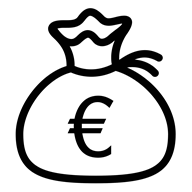
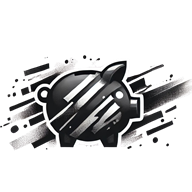
privacy

diff --git a/public/privacy.html b/public/privacy.html
@@ -1,0 +1,114 @@
+<!DOCTYPE html>
+<html lang="de">
+  <head>
+    <meta charset="UTF-8" />
+    <meta name="viewport" content="width=device-width, initial-scale=1.0" />
+    <title>Datenschutzerklärung – Victors Kohle</title>
+    <style>
+      body {
+        background-color: lightblue;
+        font-family: -apple-system, "Segoe UI", Roboto, Arial, sans-serif;
+        color: #1a1a1a;
+        margin: 0;
+        padding: 0;
+      }
+      main {
+        max-width: 720px;
+        margin: 0 auto;
+        padding: 32px 20px 64px;
+      }
+      .card {
+        background: #ffffff;
+        border-radius: 12px;
+        padding: 28px 32px;
+        box-shadow: 0 2px 10px rgba(0, 0, 0, 0.08);
+      }
+      h1 {
+        font-size: 1.6rem;
+        margin-bottom: 0.2rem;
+      }
+      h2 {
+        font-size: 1.15rem;
+        margin-top: 1.8rem;
+      }
+      p, li {
+        line-height: 1.6;
+      }
+      .stand {
+        color: #555;
+        font-size: 0.9rem;
+        margin-bottom: 1.5rem;
+      }
+      a {
+        color: #1a56db;
+      }
+    </style>
+  </head>
+  <body>
+    <main>
+      <div class="card">
+        <h1>Datenschutzerklärung</h1>
+        <p class="stand">Victors Kohle · Stand: August 2026</p>
+
+        <p>
+          Diese App hilft Kindern und Familien dabei, Taschengeld zu
+          verwalten und Sparziele zu verfolgen. Diese Erklärung beschreibt,
+          welche Daten dabei verarbeitet werden.
+        </p>
+
+        <h2>Verantwortlicher</h2>
+        <p>
+          Yanqin Qualmann<br />
+          Kontakt und weitere Informationen: <a href="https://www.yanqin.de" target="_blank" rel="noopener noreferrer">www.yanqin.de</a>
+        </p>
+
+        <h2>Welche Daten werden verarbeitet</h2>
+        <ul>
+          <li>
+            <strong>Anmeldedaten:</strong> Die Anmeldung erfolgt über
+            Google Sign-In. Dabei werden Name, E-Mail-Adresse und
+            Profilbild des verwendeten Google-Kontos übermittelt und zur
+            Identifikation innerhalb der App genutzt.
+          </li>
+          <li>
+            <strong>Nutzungsdaten:</strong> Von dir eingegebene Taschengeld-
+            und Sparbeträge (z. B. wöchentliches Taschengeld, Ausgaben,
+            Ein- und Auszahlungen in die Spardose) werden gespeichert, um
+            dir deinen Kontostand und Verlauf anzuzeigen.
+          </li>
+        </ul>
+
+        <h2>Wie werden die Daten gespeichert</h2>
+        <p>
+          Alle Daten werden über Google Firebase (Authentication und
+          Cloud Firestore) gespeichert, einem Dienst von Google Ireland
+          Limited / Google LLC. Es gelten ergänzend die
+          <a href="https://policies.google.com/privacy" target="_blank" rel="noopener noreferrer">Datenschutzbestimmungen von Google</a>.
+        </p>
+
+        <h2>Was nicht passiert</h2>
+        <ul>
+          <li>Es wird keine Werbung angezeigt.</li>
+          <li>Es werden keine Analyse- oder Tracking-Dienste eingebunden.</li>
+          <li>Deine Daten werden nicht verkauft oder an Dritte zu Werbezwecken weitergegeben.</li>
+        </ul>
+
+        <h2>Speicherdauer und Löschung</h2>
+        <p>
+          Deine Daten bleiben gespeichert, solange dein Konto besteht.
+          Wenn du die Löschung deines Kontos und aller gespeicherten
+          Daten wünschst, kontaktiere uns über
+          <a href="https://www.yanqin.de" target="_blank" rel="noopener noreferrer">www.yanqin.de</a>.
+        </p>
+
+        <h2>Hinweis für Familien</h2>
+        <p>
+          Die App richtet sich an Kinder in Begleitung eines
+          Erziehungsberechtigten. Die Anmeldung erfolgt über ein
+          Google-Konto, das von einem Erziehungsberechtigten
+          bereitgestellt oder verwaltet werden sollte.
+        </p>
+      </div>
+    </main>
+  </body>
+</html>
